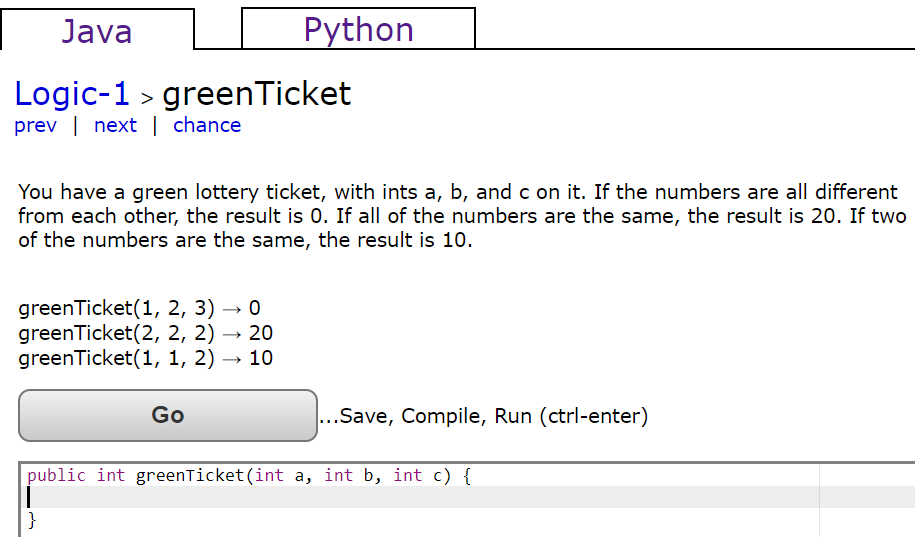
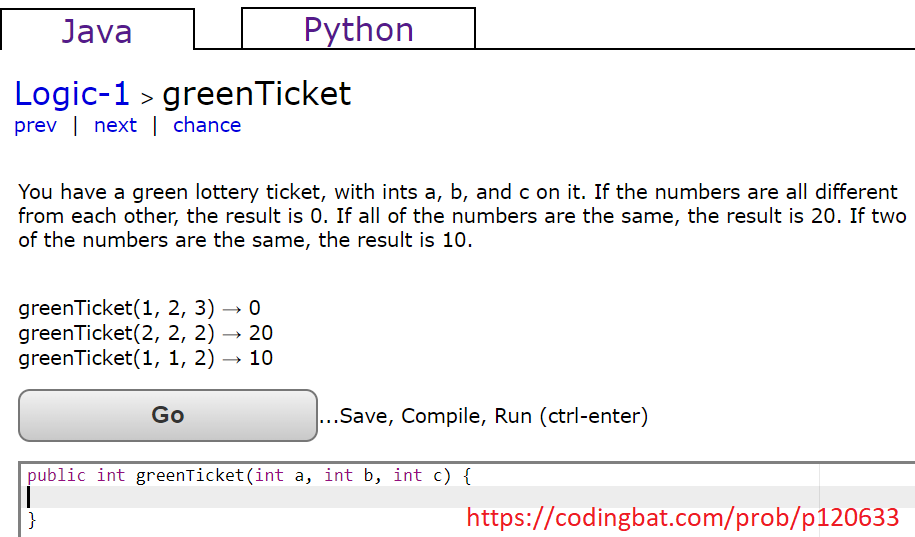
other tasks from codingbat.com and fixed

Changed region(s): [[0.4896, 0.9236, 0.9792, 1.0]]

diff --git a/Consileon.java b/Consileon.java
@@ -1,5 +1,5 @@
 public class Consileon {
-
+	//https://codingbat.com/prob/p124620
     public int wordsCount(String[] words, int len) {
 
         int howManyWords = 0;
@@ -22,7 +22,7 @@ public class Consileon {
 
         return howManyWords;
     }
-
+	//https://codingbat.com/prob/p183837
     public String[] wordsFront(String[] words, int n) {
         String [] stringN = new String[n];
         for (int i = 0; i < n; i++)
@@ -32,7 +32,7 @@ public class Consileon {
 
         return stringN;
     }
-
+	//https://codingbat.com/prob/p120633
     public int greenTicket(int a, int b, int c) {
 
         if (a == b)
